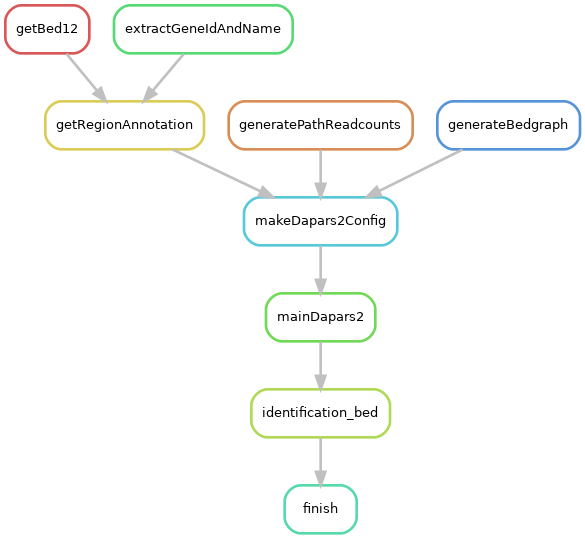
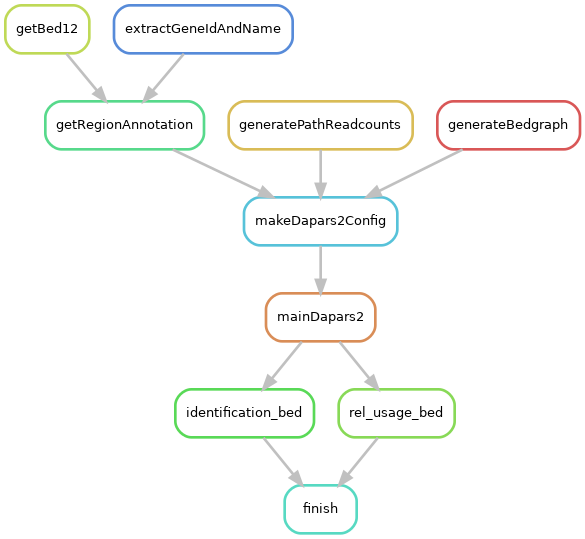
update README and rulegraph

diff --git a/execution_workflows/DaPars2/Dapars2_snakemake/README.md b/execution_workflows/DaPars2/Dapars2_snakemake/README.md
@@ -1,7 +1,11 @@
 
 # DaPars2
 
-Execution workflow to run DaPars2 and generate poly(A) site identification challenge output. See [Notes section](#notes) for clarifications on exclusion from the quantification and differential usage challenges.
+Execution workflow to run DaPars2. The tool qualifies for the following APAeval benchmarking events:
+- poly(A) site identification
+- poly(A) site relative usage quantification
+
+See [Notes section](#notes) for clarifications on exclusion from the TPM quantification and differential usage challenges.
 
 
 Github repo: https://github.com/3UTR/DaPars2
@@ -68,7 +72,8 @@ bash run_local.sh
 
 ## Output & post-processing
 > *  DaPars2 output tables are generated per chromosome for each sample. Under the main results directory, these are available at `intermediate_<sample_name>/apa_<chr_name>/apa_result_temp.<chr_name>.txt`
-> * BED file of identified proximal and distal poly(A) sites per sample, generated at the base of the main results directory at `<sample_name><out_bed_suffix>` (out_bed_suffix is defined in `config/config.DaPars2.yaml`). The BED file is **unsorted**.
+> * BED file of identified proximal and distal poly(A) sites per sample, generated at the base of the main results directory at `<sample_name><out_id_bed_suffix>` (out_id_bed_suffix is defined in `config/config.DaPars2.yaml`). The BED file is **unsorted**.
+> * BED file of identified proximal and distal poly(A) sites per sample along with their fractional relative usage to other PAS in the same region in the 'score' column. The file is generated at the base of the main results directory at `<sample_name><out_rel_bed_suffix>` (out_rel_bed_suffix is defined in `config/config.DaPars2.yaml`). The BED file is **unsorted**.
 
 
 
@@ -76,6 +81,6 @@ bash run_local.sh
 > * This workflow uses `Dapars2_Multi_Sample.py` where one can assign chromosome name as a command line argument, whereas `DaPars2_Multi_Sample_Multi_Chr.py` is hardcoded for standard human chromosomes with the 'chr' prefix. Both scripts otherwise produce identical output with test data.
 > * In [DaPars2 documentation](http://bioinfo.szbl.ac.cn/DaPars2/DaPars2.html), the input files are in wiggle format; however, the testing data that it provides is in bedgraph format. This workflow generates bedgraph files and runs successfully without error on test data
 > * The [DaPars2 documentation](http://bioinfo.szbl.ac.cn/DaPars2/DaPars2.html) states a dependency on R but no scripts appears to use R. The Docker image does not install R and Dapars2 runs successfully without error on test data.
-> * DaPars2 only provides polyA site quantification through it's relative **P**ercent **D**istal site **U**sage **I**ndex (PDUI) metric. Our current quantification benchmarks require a [TPM value per polyA site](https://github.com/iRNA-COSI/APAeval/blob/main/execution_workflows/execution_output_specification.md#format-02), so DaPars2 is not included for the quantification challenge as it stands.
+> * DaPars2 only provides polyA site quantification through it's relative **P**ercent **D**istal site **U**sage **I**ndex (PDUI) metric. Since DaPars2 uses a '2 site model' for each region, we can obtain the proximal site fractional relative usage by subtracting the PDUI from 1. As such, DaPars2 qualifies for the [relative usage quantification challenge ('Format 04') but not the 'TPM' quantification challenge ('Format 02')](https://github.com/iRNA-COSI/APAeval/blob/main/execution_workflows/execution_output_specification.md#format-02).
 > * Unlike DaPars, DaPars2 does not perform differential polyA site usage testing and cannot be included for the differential usage challenge.
 > * Owing to bug report at 3UTR/DaPars2#8, the 'Loci' column start coordinates (which originate from a BED file and should follow BED coordinate conventions) are shifted forward by 1nt. If extracted without modification, distal poly(A) sites on the minus strand would be 1nt upstream of the source transcript. 1nt is subtracted from the 'Loci start' coordinate for transcripts on the minus strand to ensure they match the source transcript.
